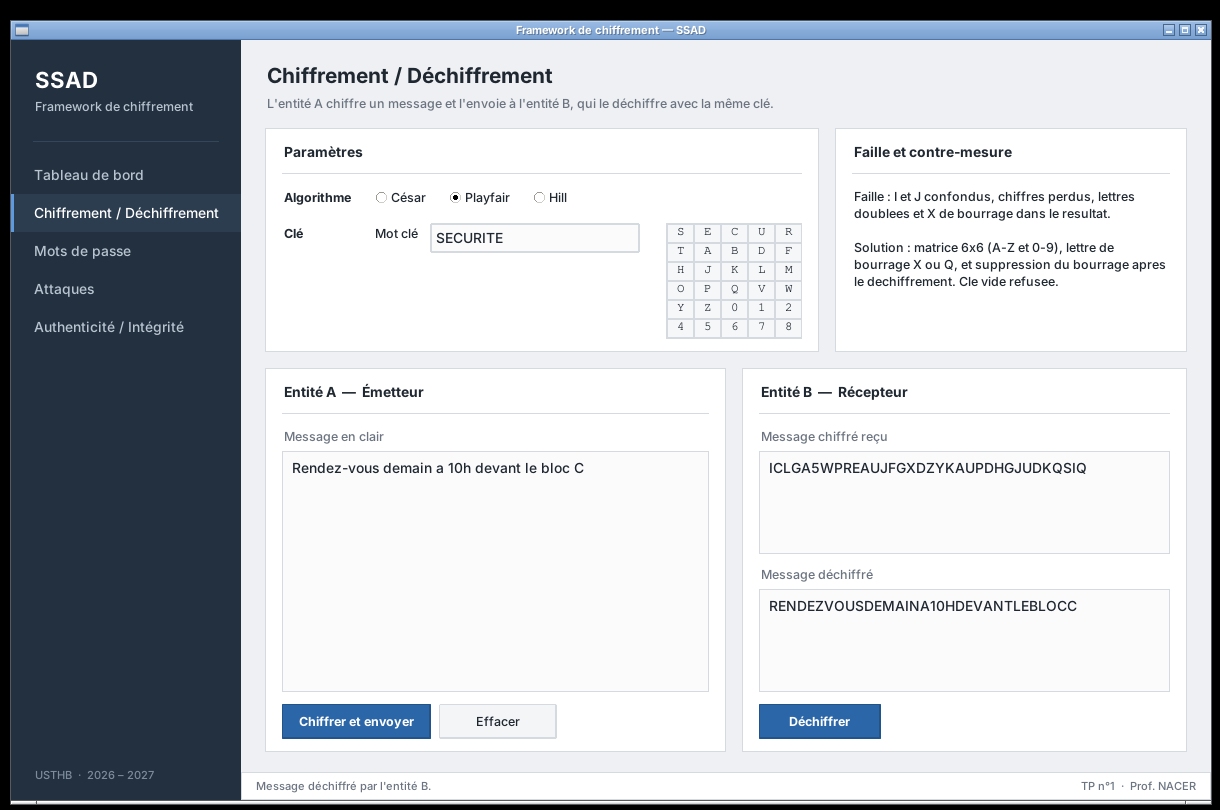
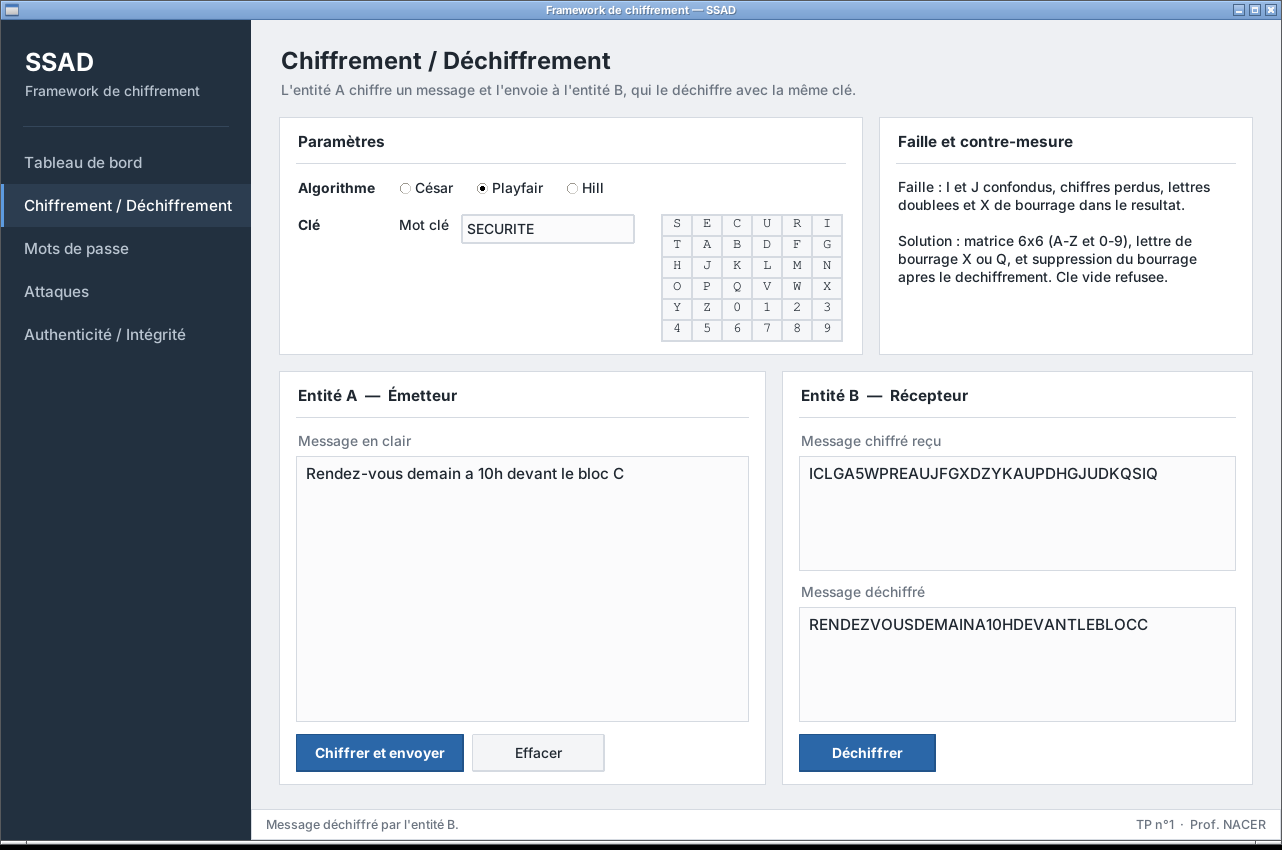
Interface : suppression du bloc d'informations et du pied de menu, design agrandi
Claude-Session: https://claude.ai/code/session_01J88oCW3q6BXk1MbiE73Ami

diff --git a/interface.py b/interface.py
@@ -29,7 +29,7 @@ class Carte(tk.Frame):
         super().__init__(parent, bg=CARTE, highlightbackground=BORDURE, highlightthickness=1)
         entete = tk.Frame(self, bg=CARTE)
         entete.pack(fill="x", padx=16, pady=(12, 0))
-        tk.Label(entete, text=titre, bg=CARTE, fg=TEXTE, font=(police, 10, "bold")).pack(side="left")
+        tk.Label(entete, text=titre, bg=CARTE, fg=TEXTE, font=(police, 11, "bold")).pack(side="left")
         tk.Frame(self, bg=BORDURE, height=1).pack(fill="x", padx=16, pady=(10, 0))
         self.corps = tk.Frame(self, bg=CARTE)
         self.corps.pack(fill="both", expand=True, padx=16, pady=12)
@@ -37,14 +37,14 @@ class Carte(tk.Frame):
 
 def zone_texte(parent, police, hauteur=5):
     cadre = tk.Frame(parent, bg=BORDURE, padx=1, pady=1)
-    t = tk.Text(cadre, height=hauteur, width=10, relief="flat", wrap="word", font=(police, 10), bg="#fbfbfc",
+    t = tk.Text(cadre, height=hauteur, width=10, relief="flat", wrap="word", font=(police, 11), bg="#fbfbfc",
                 fg=TEXTE, insertbackground=TEXTE, padx=8, pady=6, highlightthickness=0)
     t.pack(fill="both", expand=True)
     return cadre, t
 
 
 def etiquette(parent, texte, police, gris=False, gras=False):
-    style = (police, 9, "bold") if gras else (police, 9)
+    style = (police, 10, "bold") if gras else (police, 10)
     return tk.Label(parent, text=texte, bg=CARTE, fg=GRIS if gris else TEXTE, font=style, anchor="w", justify="left")
 
 
@@ -57,11 +57,11 @@ class Page(tk.Frame):
         self.app = app
         self.police = app.police
         entete = tk.Frame(self, bg=FOND)
-        entete.pack(fill="x", padx=24, pady=(20, 14))
-        tk.Label(entete, text=self.titre, bg=FOND, fg=TEXTE, font=(self.police, 15, "bold")).pack(anchor="w")
-        tk.Label(entete, text=self.sous_titre, bg=FOND, fg=GRIS, font=(self.police, 9)).pack(anchor="w", pady=(2, 0))
+        entete.pack(fill="x", padx=28, pady=(24, 16))
+        tk.Label(entete, text=self.titre, bg=FOND, fg=TEXTE, font=(self.police, 17, "bold")).pack(anchor="w")
+        tk.Label(entete, text=self.sous_titre, bg=FOND, fg=GRIS, font=(self.police, 10)).pack(anchor="w", pady=(2, 0))
         self.contenu = tk.Frame(self, bg=FOND)
-        self.contenu.pack(fill="both", expand=True, padx=24, pady=(0, 20))
+        self.contenu.pack(fill="both", expand=True, padx=28, pady=(0, 24))
 
     def carte(self, parent, titre):
         return Carte(parent, titre, self.police)
@@ -73,18 +73,8 @@ class PageAccueil(Page):
 
     def __init__(self, parent, app):
         super().__init__(parent, app)
-        info = self.carte(self.contenu, "Informations du projet")
-        info.pack(fill="x")
-        lignes = [("Établissement", "Université des Sciences et de la Technologie Houari Boumediene"),
-                  ("Module", "SSAD"),
-                  ("Enseignant", "Prof. NACER"),
-                  ("Année universitaire", "2026 – 2027")]
-        for i, (cle, valeur) in enumerate(lignes):
-            etiquette(info.corps, cle, self.police, gris=True).grid(row=i, column=0, sticky="w", pady=3, padx=(0, 30))
-            etiquette(info.corps, valeur, self.police).grid(row=i, column=1, sticky="w", pady=3)
-
         grille = tk.Frame(self.contenu, bg=FOND)
-        grille.pack(fill="both", expand=True, pady=(16, 0))
+        grille.pack(fill="both", expand=True)
         modules = [("Chiffrement / Déchiffrement", "Partie 2",
                     "Échange d'un message entre une entité A et une entité B avec les algorithmes César, Playfair et Hill.",
                     "chiffrement"),
@@ -101,11 +91,14 @@ class PageAccueil(Page):
             c = tk.Frame(grille, bg=CARTE, highlightbackground=BORDURE, highlightthickness=1)
             c.grid(row=i // 2, column=i % 2, sticky="nsew", padx=(0 if i % 2 == 0 else 8, 8 if i % 2 == 0 else 0),
                    pady=(0, 16))
-            tk.Label(c, text=partie.upper(), bg=CARTE, fg=BLEU, font=(self.police, 8, "bold")).pack(anchor="w", padx=16, pady=(14, 0))
-            tk.Label(c, text=nom, bg=CARTE, fg=TEXTE, font=(self.police, 12, "bold")).pack(anchor="w", padx=16, pady=(2, 4))
-            tk.Label(c, text=desc, bg=CARTE, fg=GRIS, font=(self.police, 9), wraplength=380, justify="left").pack(anchor="w", padx=16)
-            ttk.Button(c, text="Ouvrir", style="Secondaire.TButton",
-                       command=lambda k=cle: self.app.afficher(k)).pack(anchor="w", padx=16, pady=14)
+            tk.Frame(c, bg=BLEU, height=3).pack(fill="x")
+            tk.Label(c, text=partie.upper(), bg=CARTE, fg=BLEU, font=(self.police, 9, "bold")).pack(anchor="w", padx=22, pady=(22, 0))
+            tk.Label(c, text=nom, bg=CARTE, fg=TEXTE, font=(self.police, 14, "bold")).pack(anchor="w", padx=22, pady=(4, 8))
+            tk.Label(c, text=desc, bg=CARTE, fg=GRIS, font=(self.police, 10), wraplength=400, justify="left").pack(anchor="w", padx=22)
+            ttk.Button(c, text="Ouvrir le module", style="Principal.TButton",
+                       command=lambda k=cle: self.app.afficher(k)).pack(side="bottom", anchor="w", padx=22, pady=22)
+        grille.rowconfigure(0, weight=1, uniform="r")
+        grille.rowconfigure(1, weight=1, uniform="r")
         grille.columnconfigure(0, weight=1, uniform="m")
         grille.columnconfigure(1, weight=1, uniform="m")
 
@@ -153,13 +146,13 @@ class PageChiffrement(Page):
         etiquette(self.cadre_playfair, "Mot clé", self.police).grid(row=0, column=0, sticky="nw")
         self.mot_cle = tk.StringVar(value="SECURITE")
         self.mot_cle.trace_add("write", lambda *a: self.maj_matrice())
-        ttk.Entry(self.cadre_playfair, textvariable=self.mot_cle, width=22).grid(row=0, column=1, sticky="nw", padx=10)
+        ttk.Entry(self.cadre_playfair, textvariable=self.mot_cle, width=18).grid(row=0, column=1, sticky="nw", padx=10)
         self.matrice = tk.Frame(self.cadre_playfair, bg=BORDURE, padx=1, pady=1)
         self.matrice.grid(row=0, column=2, rowspan=2, padx=(16, 0))
         self.cases = []
         for i in range(6):
             for j in range(6):
-                l = tk.Label(self.matrice, text="", width=3, bg="#f6f7f9", fg=TEXTE, font=("Courier", 9))
+                l = tk.Label(self.matrice, text="", width=3, bg="#f6f7f9", fg=TEXTE, font=("Courier", 10))
                 l.grid(row=i, column=j, padx=1, pady=1)
                 self.cases.append(l)
 
@@ -178,7 +171,7 @@ class PageChiffrement(Page):
 
         failles = self.carte(haut, "Faille et contre-mesure")
         failles.grid(row=0, column=1, sticky="nsew", padx=(16, 0))
-        self.texte_failles = tk.Label(failles.corps, text="", bg=CARTE, fg=TEXTE, font=(self.police, 9),
+        self.texte_failles = tk.Label(failles.corps, text="", bg=CARTE, fg=TEXTE, font=(self.police, 10),
                                       justify="left", anchor="nw", wraplength=380)
         self.texte_failles.pack(fill="both", expand=True)
         self.texte_failles.bind("<Configure>", lambda e: self.texte_failles.config(wraplength=e.width - 4))
@@ -366,7 +359,7 @@ class PageMotsDePasse(Page):
         droite = self.carte(self.contenu, "Comptes enregistrés")
         droite.pack(side="left", fill="both", expand=True, padx=(16, 0))
         self.table = ttk.Treeview(droite.corps, columns=("id", "cas", "empreinte"), show="headings", height=10)
-        for col, titre, lg in [("id", "Identifiant", 110), ("cas", "Politique", 70), ("empreinte", "Empreinte stockée", 260)]:
+        for col, titre, lg in [("id", "Identifiant", 110), ("cas", "Politique", 90), ("empreinte", "Empreinte stockée", 240)]:
             self.table.heading(col, text=titre, anchor="w")
             self.table.column(col, width=lg, anchor="w")
         self.table.pack(fill="both", expand=True)
@@ -425,7 +418,7 @@ class PageAttaques(Page):
         compteurs.pack(anchor="w", fill="x")
         for i, (titre, val) in enumerate([("Tentatives", "0"), ("Temps écoulé", "0.000 s"), ("Résultat", "—")]):
             etiquette(compteurs, titre, self.police, gris=True).grid(row=0, column=i, sticky="w", padx=(0, 28))
-            tk.Label(compteurs, text=val, bg=CARTE, fg=TEXTE, font=(self.police, 12, "bold")).grid(row=1, column=i, sticky="w")
+            tk.Label(compteurs, text=val, bg=CARTE, fg=TEXTE, font=(self.police, 14, "bold")).grid(row=1, column=i, sticky="w")
 
         bas = tk.Frame(self.contenu, bg=FOND)
         bas.pack(fill="both", expand=True, pady=(16, 0))
@@ -445,7 +438,7 @@ class PageAttaques(Page):
         journal = self.carte(bas, "Journal")
         journal.grid(row=0, column=1, sticky="nsew", padx=(16, 0))
         cadre, self.journal = zone_texte(journal.corps, self.police, 8)
-        self.journal.config(font=("Courier", 9), fg=GRIS)
+        self.journal.config(font=("Courier", 10), fg=GRIS)
         self.journal.insert("1.0", "En attente du lancement d'une attaque.")
         self.journal.config(state="disabled")
         cadre.pack(fill="both", expand=True)
@@ -488,7 +481,7 @@ class PageIntegrite(Page):
         cadre, self.message = zone_texte(a.corps, self.police, 7)
         cadre.pack(fill="both", expand=True, pady=(4, 10))
         etiquette(a.corps, "Empreinte générée", self.police, gris=True).pack(anchor="w")
-        self.empreinte = ttk.Entry(a.corps, state="readonly", font=("Courier", 9))
+        self.empreinte = ttk.Entry(a.corps, state="readonly", font=("Courier", 10))
         self.empreinte.pack(fill="x", pady=(4, 12))
         ttk.Button(a.corps, text="Générer et envoyer", style="Principal.TButton",
                    command=self.app.non_disponible).pack(anchor="w")
@@ -499,13 +492,13 @@ class PageIntegrite(Page):
         cadre, self.recu = zone_texte(b.corps, self.police, 7)
         cadre.pack(fill="both", expand=True, pady=(4, 10))
         etiquette(b.corps, "Empreinte reçue", self.police, gris=True).pack(anchor="w")
-        self.empreinte_recue = ttk.Entry(b.corps, font=("Courier", 9))
+        self.empreinte_recue = ttk.Entry(b.corps, font=("Courier", 10))
         self.empreinte_recue.pack(fill="x", pady=(4, 12))
         ligne = tk.Frame(b.corps, bg=CARTE)
         ligne.pack(fill="x")
         ttk.Button(ligne, text="Vérifier", style="Principal.TButton", command=self.app.non_disponible).pack(side="left")
         self.verdict = tk.Label(ligne, text="En attente de vérification", bg="#f1f2f4", fg=GRIS,
-                                font=(self.police, 9), padx=10, pady=4)
+                                font=(self.police, 10), padx=10, pady=4)
         self.verdict.pack(side="left", padx=12)
         self.maj_cle()
 
@@ -517,18 +510,18 @@ class Application(tk.Tk):
     def __init__(self):
         super().__init__()
         self.title("Framework de chiffrement — SSAD")
-        self.geometry("1200x760")
-        self.minsize(1100, 700)
+        self.geometry("1280x820")
+        self.minsize(1180, 760)
         self.configure(bg=FOND)
         self.police = choisir_police()
         self.styles()
 
-        menu = tk.Frame(self, bg=MENU, width=230)
+        menu = tk.Frame(self, bg=MENU, width=250)
         menu.pack(side="left", fill="y")
         menu.pack_propagate(False)
-        tk.Label(menu, text="SSAD", bg=MENU, fg="white", font=(self.police, 16, "bold")).pack(anchor="w", padx=22, pady=(24, 0))
+        tk.Label(menu, text="SSAD", bg=MENU, fg="white", font=(self.police, 18, "bold")).pack(anchor="w", padx=22, pady=(24, 0))
         tk.Label(menu, text="Framework de chiffrement", bg=MENU, fg=MENU_TEXTE,
-                 font=(self.police, 9)).pack(anchor="w", padx=22, pady=(0, 24))
+                 font=(self.police, 10)).pack(anchor="w", padx=22, pady=(0, 24))
         tk.Frame(menu, bg="#34465a", height=1).pack(fill="x", padx=22, pady=(0, 14))
 
         self.boutons = {}
@@ -541,24 +534,22 @@ class Application(tk.Tk):
             ligne.pack(fill="x")
             repere = tk.Frame(ligne, bg=MENU, width=3)
             repere.pack(side="left", fill="y")
-            b = tk.Label(ligne, text=texte, bg=MENU, fg=MENU_TEXTE, font=(self.police, 10), anchor="w",
-                         padx=19, pady=9, cursor="hand2")
+            b = tk.Label(ligne, text=texte, bg=MENU, fg=MENU_TEXTE, font=(self.police, 11), anchor="w",
+                         padx=19, pady=11, cursor="hand2")
             b.pack(side="left", fill="x", expand=True)
             b.bind("<Button-1>", lambda e, k=cle: self.afficher(k))
             b.bind("<Enter>", lambda e, k=cle: self.survol(k, True))
             b.bind("<Leave>", lambda e, k=cle: self.survol(k, False))
             self.boutons[cle] = (repere, b)
 
-        tk.Label(menu, text="USTHB  ·  2026 – 2027", bg=MENU, fg="#7d8b9a",
-                 font=(self.police, 8)).pack(side="bottom", anchor="w", padx=22, pady=16)
 
         droite = tk.Frame(self, bg=FOND)
         droite.pack(side="left", fill="both", expand=True)
         barre = tk.Frame(droite, bg=CARTE, highlightbackground=BORDURE, highlightthickness=1)
         barre.pack(side="bottom", fill="x")
-        self.texte_statut = tk.Label(barre, text="Prêt.", bg=CARTE, fg=GRIS, font=(self.police, 8), anchor="w")
+        self.texte_statut = tk.Label(barre, text="Prêt.", bg=CARTE, fg=GRIS, font=(self.police, 9), anchor="w")
         self.texte_statut.pack(side="left", padx=12, pady=4)
-        tk.Label(barre, text="TP n°1  ·  Prof. NACER", bg=CARTE, fg=GRIS, font=(self.police, 8)).pack(side="right", padx=12)
+        tk.Label(barre, text="TP n°1  ·  Prof. NACER", bg=CARTE, fg=GRIS, font=(self.police, 9)).pack(side="right", padx=12)
 
         zone = tk.Frame(droite, bg=FOND)
         zone.pack(fill="both", expand=True)
@@ -576,9 +567,9 @@ class Application(tk.Tk):
         s = ttk.Style(self)
         s.theme_use("clam")
         p = self.police
-        s.configure(".", font=(p, 9), background=CARTE, foreground=TEXTE)
-        s.configure("TRadiobutton", background=CARTE, font=(p, 9))
-        s.configure("TCheckbutton", background=CARTE, font=(p, 9))
+        s.configure(".", font=(p, 10), background=CARTE, foreground=TEXTE)
+        s.configure("TRadiobutton", background=CARTE, font=(p, 10))
+        s.configure("TCheckbutton", background=CARTE, font=(p, 10))
         s.map("TRadiobutton", background=[("active", CARTE)])
         s.map("TCheckbutton", background=[("active", CARTE)])
         s.configure("TEntry", fieldbackground="#fbfbfc", bordercolor=BORDURE, lightcolor=BORDURE, padding=4)
@@ -588,14 +579,14 @@ class Application(tk.Tk):
         s.configure("TCombobox", fieldbackground="#fbfbfc", bordercolor=BORDURE, lightcolor=BORDURE, padding=3)
         s.map("TCombobox", fieldbackground=[("readonly", "#fbfbfc")])
         s.configure("Principal.TButton", background=BLEU, foreground="white", bordercolor=BLEU_FONCE,
-                    lightcolor=BLEU, darkcolor=BLEU_FONCE, font=(p, 9, "bold"), padding=(14, 6))
+                    lightcolor=BLEU, darkcolor=BLEU_FONCE, font=(p, 10, "bold"), padding=(16, 7))
         s.map("Principal.TButton", background=[("pressed", BLEU_FONCE), ("active", BLEU_FONCE)])
         s.configure("Secondaire.TButton", background="#f4f5f7", foreground=TEXTE, bordercolor=BORDURE,
-                    lightcolor="#f4f5f7", darkcolor=BORDURE, padding=(12, 6))
+                    lightcolor="#f4f5f7", darkcolor=BORDURE, padding=(14, 7))
         s.map("Secondaire.TButton", background=[("pressed", "#e3e6ea"), ("active", "#e9ebee")])
-        s.configure("Treeview", background=CARTE, fieldbackground=CARTE, rowheight=26, bordercolor=BORDURE,
-                    font=(p, 9))
-        s.configure("Treeview.Heading", background="#f4f5f7", foreground=GRIS, font=(p, 9, "bold"),
+        s.configure("Treeview", background=CARTE, fieldbackground=CARTE, rowheight=28, bordercolor=BORDURE,
+                    font=(p, 10))
+        s.configure("Treeview.Heading", background="#f4f5f7", foreground=GRIS, font=(p, 10, "bold"),
                     bordercolor=BORDURE, relief="flat", padding=(6, 5))
         s.map("Treeview.Heading", background=[("active", "#eceef1")])
         s.configure("Horizontal.TProgressbar", background=BLEU, troughcolor="#e6e9ed", bordercolor=BORDURE,
